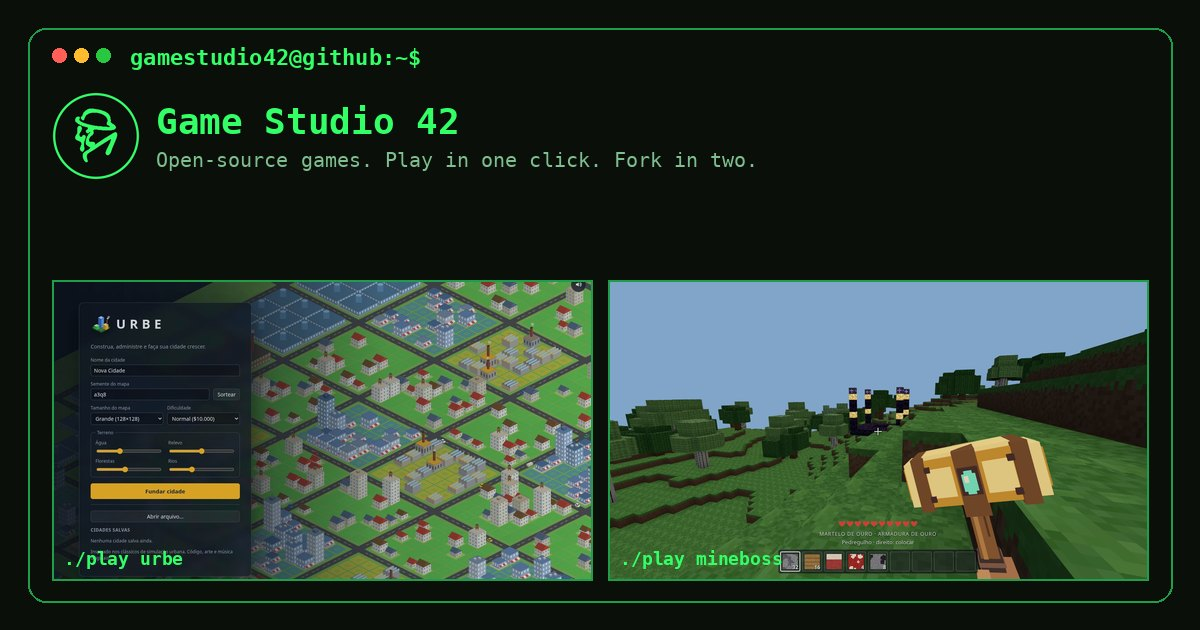
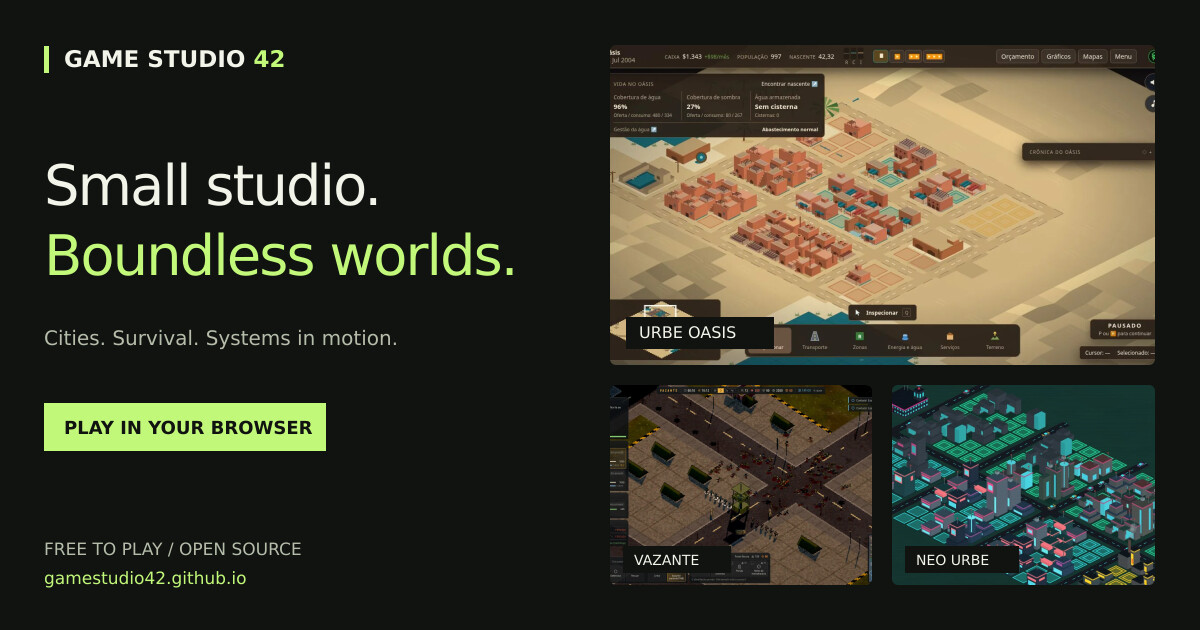
feat: refine studio art direction and mobile experience

diff --git a/styles.css b/styles.css
@@ -365,8 +365,97 @@ a:hover { color: var(--accent); }
   .game-image:hover img, .world:hover img, .button:hover { transform: none; }
 }
 
-/* An odd collection opens with a full-width game, keeping the remaining pairs aligned. */
+/* Editorial refinement: readable gameplay, a compact mobile opening and a clear lead game. */
+.game-image { aspect-ratio: 16 / 10; }
+.game-image img { filter: none; }
+.game-info { min-width: 0; }
+.game-info > p { margin-top: 14px; min-height: 48px; font-size: 15px; line-height: 1.7; }
+.game-meta { font-size: 11px; }
+.code-link { font-size: 13px; }
+.hero-worlds { right: -10%; width: 68%; grid-template-columns: 1.35fr 1fr .8fr; }
+.hero-worlds::after { background: linear-gradient(90deg, #10131099, transparent 20%), linear-gradient(0deg, var(--bg), transparent 18%); }
+.world-0 { transform: translateY(25px); z-index: 2; border-color: #e5ba8699; }
+.world-0 img { filter: saturate(1) brightness(1); }
+.world-1 { transform: translateY(75px); }
+.world-2 { transform: translateY(95px); }
+.world-label { font-size: 13px; flex-wrap: wrap; }
+.world-play { display: none; font-size: 12px; color: var(--accent); }
+.oasis-feature { display: grid; grid-template-columns: 1fr 1fr; align-items: center; gap: 40px; padding: 72px max(40px, calc((100vw - 1328px) / 2)); }
+.oasis-content.container { width: auto; margin: 0; padding: 0; grid-column: 1; grid-row: 1; }
+.oasis-image { position: relative; inset: auto; z-index: auto; grid-column: 2; grid-row: 1; overflow: hidden; border: 1px solid #d5b48b33; }
+.oasis-image img { width: 100%; height: auto; object-fit: contain; filter: none; transform: none; }
+.oasis-image-label { display: block; padding: 14px 18px; color: #d0bda7; font: 11px/1.5 var(--mono); background: #292218; }
+.oasis-wordmark { margin-top: 30px; }
+.oasis-content h2 { font-size: clamp(36px, 3.5vw, 54px); }
+.oasis-content > p:not(.eyebrow) { font-size: 16px; }
+.oasis-content ul { font-size: 11px; line-height: 1.7; }
+.oasis-caption.container { width: 100%; grid-column: 1 / -1; padding-bottom: 0; margin: 0; font-size: 11px; }
+.studio-intro > p, .studio-values p, .source-intro { font-size: 16px; line-height: 1.8; }
+.eyebrow, .hero-content .eyebrow { font-size: 11px; }
 @media (min-width: 701px) {
-  .games-grid > .game-card:first-child:nth-last-child(odd) { grid-column: 1 / -1; }
-  .games-grid > .game-card:first-child:nth-last-child(odd) .game-image { aspect-ratio: 21 / 9; }
+  .games-grid > .game-card:first-child:nth-last-child(odd) { grid-column: 1 / -1; display: grid; grid-template-columns: 1.35fr 1fr; gap: 40px; align-items: center; padding-bottom: 40px; border-bottom: 1px solid var(--line); }
+  .games-grid > .game-card:first-child:nth-last-child(odd) .game-image { aspect-ratio: 16 / 9; }
+  .games-grid > .game-card:first-child:nth-last-child(odd) .game-meta { margin-top: 0; }
+  .games-grid > .game-card:first-child:nth-last-child(odd) h3 { font-size: clamp(36px, 4vw, 60px); }
+}
+@media (max-width: 1000px) {
+  .oasis-feature { grid-template-columns: 1fr; padding: 60px 24px; gap: 32px; }
+  .oasis-content.container { grid-row: 1; }
+  .oasis-image { grid-column: 1; grid-row: 2; }
+  .oasis-caption.container { grid-row: 3; }
+  .oasis-content > p:not(.eyebrow) { max-width: 650px; }
+}
+@media (max-width: 800px) {
+  .hero { display: flex; flex-direction: column; padding-bottom: 28px; }
+  .hero-content { order: 0; padding-top: 40px; padding-bottom: 26px; }
+  .hero h1 { font-size: clamp(44px, 8.5vw, 68px); }
+  .hero-intro { margin-top: 20px; font-size: 15px; line-height: 1.65; }
+  .hero-content .eyebrow { font-size: 10px; margin-bottom: 20px; }
+  .hero-actions { margin-top: 22px; gap: 10px 20px; }
+  .hero-actions .button { font-size: 13px; }
+  .hero-worlds { order: 1; position: relative; inset: auto; width: calc(100% - 48px); margin: 0 auto; height: auto; display: block; transform: none; z-index: auto; }
+  .hero-worlds::after { display: none; }
+  .world { display: none; }
+  .world-0 { display: block; transform: none; aspect-ratio: 16 / 9; }
+  .world-0 img { object-position: center; }
+  .world-label { font-size: 14px; padding: 26px 16px 14px; }
+  .world-play { display: inline; margin-left: auto; }
+  .world-label svg { margin-left: 0; }
+  .hero-bottom { position: relative; inset: auto; order: 2; margin-top: 18px; font-size: 10px; }
+  .capture-label { font-size: 9px; }
+  .game-meta { font-size: 11px; flex-wrap: wrap; }
+  .code-link, .play-link { font-size: 13px; }
+  .section-heading p { font-size: 15px; }
+  .principles span { font-size: 11px; }
+  .studio-values p { font-size: 15px; }
+  .oasis-code { font-size: 13px; }
+}
+@media (max-width: 520px) {
+  .hero-worlds { width: calc(100% - 40px); }
+  .hero h1 { font-size: clamp(42px, 12vw, 58px); }
+  .hero-actions .text-link { font-size: 13px; }
+  .hero-bottom { display: none; }
+  .hero-content { padding-top: 32px; }
+  .hero-content .eyebrow { font-size: 10px; line-height: 1.6; }
+  .hero-intro { font-size: 14px; }
+  .world-0 { aspect-ratio: 16 / 9; }
+  .world-label { font-size: 13px; }
+  .oasis-feature { padding-inline: 20px; }
+  .oasis-content .button { font-size: 14px; }
+  .oasis-content ul { font-size: 11px; }
+  .oasis-content > p:not(.eyebrow) { font-size: 15px; }
+  .oasis-caption.container { font-size: 10px; }
+  .collection-banner p { font-size: 14px; }
+  .footer-top p, .footer-bottom { font-size: 11px; }
+  .terminal pre, .source-section .terminal pre { font-size: 11px; line-height: 2.2; padding-inline: 16px; }
+}
+.game-card { display: flex; flex-direction: column; }
+.game-info { display: flex; flex-direction: column; flex: 1; }
+.game-info > p { margin-bottom: 20px; }
+.game-info .card-actions { margin-top: auto; }
+@media (max-width: 360px) {
+  .header-inner { gap: 6px; padding-block: 10px; }
+  .brand { font-size: 12px; gap: 6px; }
+  .header-tools { gap: 2px; }
+  .language-picker summary { padding-inline: 4px; }
 }

diff --git a/README.md b/README.md
@@ -32,6 +32,14 @@ Sem credenciais, tenta a API pública. Falhas da API preservam os jogos conhecid
 - `data/games.json`: catálogo editorial e fallback completo dos jogos conhecidos.
 - `assets/games/`: screenshots locais em WebP, com versões responsivas.
 - `assets/SOURCES.md`: origem das imagens e licença da fonte.
+- `brand/social-card.svg`: fonte editável da imagem de compartilhamento (1200 × 630).
+
+Para exportar a imagem social com Inkscape e ImageMagick:
+
+```sh
+inkscape brand/social-card.svg --export-filename=/tmp/gs42-social.png
+magick /tmp/gs42-social.png -quality 90 og-image.jpg
+```
 
 O catálogo inclui Urbe, Neo Urbe, Urbe Oasis, MineBoss, Vazante e a coleção Plot 42.
 Urbe Oasis participa da abertura, do catálogo e de uma seção própria. A capa local

diff --git a/assets/SOURCES.md b/assets/SOURCES.md
@@ -18,3 +18,5 @@ Fonte variável servida localmente. Licença SIL Open Font License 1.1, incluíd
 `fonts/OFL.txt`. Marca e ícones do estúdio já faziam parte deste repositório.
 
 - Vazante: `https://raw.githubusercontent.com/gamestudio42/vazante/main/docs/screenshots/battle.jpg` (captura oficial de gameplay; convertida para WebP em duas resoluções). Código MIT; créditos de recursos de terceiros em https://github.com/gamestudio42/vazante/blob/main/docs/assets.md.
+
+A imagem de compartilhamento `og-image.jpg` é composta a partir das capturas oficiais acima. A fonte editável é `brand/social-card.svg` (1200 × 630).
